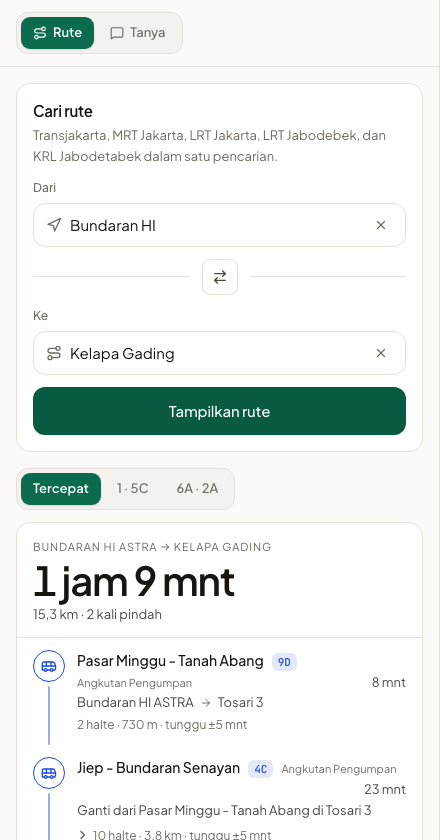
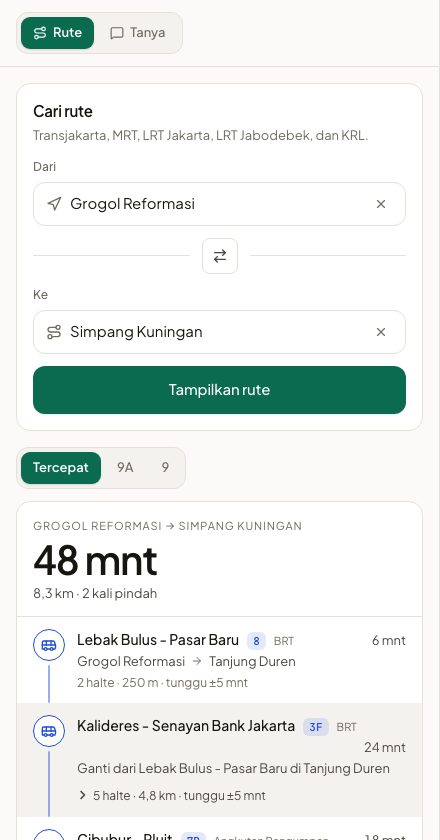
fix(fare): aturan tap in-tap out, transfer, dan integrasi multimodal
Riset
- research/fares-tap-in-out-2026-10.md: laporan dengan kutipan dan URL
- research/data/fares-tap-in-out.json: aturan terstruktur
- research/tools/ux-visual/verify_fares.py: pencocok antara temuan dan data

Perubahan
- Skema integrasi hanya berlaku bila perjalanan memakai minimal dua moda
  berbeda, jadi pindah BRT ke BRT tidak pernah masuk skema itu
- Aturan transfer ditulis ulang: skema internal operator dengan plafon
  Rp5.000 per 3 jam di kartu JakLingko, skema multimodal Rp10.000 yang
  menghitung kaki bus, dan Microtrans atau bus non-BRT yang memutus sesi
- Keyakinan tarif Rp2.500 hanya hari kerja dibuang: tidak ada dasarnya
- Ditambahkan catatan: tarif 1 Januari 2027 belum diumumkan angkanya,
  dan tidak ada batas jam perjalanan tanpa tap out

Antarmuka
- Garis rute di peta bertambah saat kursor di atasnya
- Daftar halte yang dibuka jadi garis waktu: tempat, menit, dan jarak

diff --git a/apps/web/src/components/transit/leg-list.tsx b/apps/web/src/components/transit/leg-list.tsx
@@ -163,18 +163,51 @@ function LegRow({
         </p>
 
         {leg.stops.length > 2 ? (
-          <details className="group mt-1.5">
-            <summary className="inline-flex cursor-pointer list-none items-center gap-1 text-[12px] text-ink-3 hover:text-ink-2">
+          <details className="group mt-2" open={active}>
+            <summary className="inline-flex cursor-pointer list-none items-center gap-1 rounded text-[12px] text-ink-3 transition-colors hover:text-ink-2">
               <ChevronSmall />
               {leg.stops.length} halte · {formatDistance(leg.distanceKm)}
               {!isWalk && leg.waitMinutes > 0 ? ` · tunggu ±${leg.waitMinutes} mnt` : ""}
             </summary>
-            <ol className="mt-1.5 space-y-1 border-l border-line pl-3">
-              {leg.stops.slice(1, -1).map((stop) => (
-                <li key={stop.stationId} className="text-[12px] text-ink-3">
-                  {stop.name}
-                </li>
-              ))}
+
+            {/*
+             * The stops of the ride, as a line the rider can follow:
+             * the place, the moment the vehicle reaches it, and the
+             * distance from the start. Every stop is a point on the map,
+             * so pointing at one of them lights it up there.
+             */}
+            <ol className="mt-2 space-y-0 border-l border-line pl-0">
+              {leg.stops.map((stop, index) => {
+                const first = index === 0;
+                const last = index === leg.stops.length - 1;
+                const minutes = Math.round((leg.durationMinutes * index) / Math.max(leg.stops.length - 1, 1));
+                return (
+                  <li
+                    key={`${stop.stationId}-${index}`}
+                    className="relative -ml-[5px] flex items-baseline gap-2 py-[3px] pl-3 text-[12px]"
+                  >
+                    <span
+                      aria-hidden
+                      className={cn(
+                        "absolute top-[7px] size-[5px] shrink-0 rounded-full border",
+                        first || last ? "border-transparent" : "border-line",
+                      )}
+                      style={{ backgroundColor: first || last ? color : "var(--surface)", left: -5 }}
+                    />
+                    <span
+                      className={cn(
+                        "min-w-0 flex-1 truncate",
+                        first || last ? "font-medium text-ink" : "text-ink-2",
+                      )}
+                    >
+                      {stop.name}
+                    </span>
+                    <span className="shrink-0 tabular-nums text-ink-3">
+                      {first ? "0" : `${minutes} mnt`}
+                    </span>
+                  </li>
+                );
+              })}
             </ol>
           </details>
         ) : (

diff --git a/apps/web/src/components/map/route-map.tsx b/apps/web/src/components/map/route-map.tsx
@@ -139,6 +139,33 @@ export function RouteMap({ legs, markers, theme, className, onMarkerClick }: Rou
       popup = null;
     });
 
+    /*
+     * The line under the pointer.
+     *
+     * The line grows a little and the cursor says it can be pointed at,
+     * so the reader knows the map is not a picture but a thing to be
+     * read.
+     */
+    let hoveredLine: number | string | null = null;
+    map.on("mousemove", ROUTE_LAYER, (event) => {
+      const feature = event.features?.[0];
+      const id = feature?.id;
+      if (id === undefined || id === hoveredLine) return;
+      if (hoveredLine !== null) {
+        map.setFeatureState({ source: SOURCE_ID, id: hoveredLine }, { hover: false });
+      }
+      hoveredLine = id;
+      map.setFeatureState({ source: SOURCE_ID, id }, { hover: true });
+      map.getCanvas().style.cursor = "pointer";
+    });
+    map.on("mouseleave", ROUTE_LAYER, () => {
+      if (hoveredLine !== null) {
+        map.setFeatureState({ source: SOURCE_ID, id: hoveredLine }, { hover: false });
+        hoveredLine = null;
+      }
+      map.getCanvas().style.cursor = "";
+    });
+
     map.on("click", MARKER_HIT_LAYER, (event) => {
       const feature = event.features?.[0];
       if (!feature) return;
@@ -293,15 +320,23 @@ function addRouteLayers(map: MapLibreMap): void {
     type: "line",
     source: SOURCE_ID,
     filter: ["all", ["==", ["get", "variant"], 0], ["==", ["get", "kind"], "ride"]],
+    // The identifier of the feature lets the map remember which leg of
+    // the journey the pointer is over.
+    promoteId: "id",
     layout: { "line-cap": "round", "line-join": "round" },
     paint: {
       "line-color": ["get", "color"],
       // The width carries the mode as well as the colour does, so the
       // route stays readable for a reader who cannot tell the colours
-      // apart.
-      "line-width": ["get", "width"],
+      // apart. The line the pointer is over grows a little.
+      "line-width": [
+        "case",
+        ["boolean", ["feature-state", "hover"], false],
+        ["+", ["get", "width"], 1.5],
+        ["get", "width"],
+      ],
     },
-  });
+  } as never);
 
   // The walk between two vehicles is dashed and thin: it is not a ride,
   // and it should not look like one.

diff --git a/packages/transit/src/fare.ts b/packages/transit/src/fare.ts
@@ -331,9 +331,14 @@ export function quoteFare(input: {
   for (const candidate of input.rules.integrations) {
     const covered = rides.every((leg) => leg.operator && candidate.covers.includes(leg.operator));
     if (!covered) continue;
-    // The scheme exists to combine modes, so it is only offered when the
-    // journey really does use more than one vehicle.
-    if (rides.length < 2) continue;
+    /*
+     * The scheme exists to combine modes, not to make one mode cheaper.
+     * Two buses of the same operator are two fares, not one journey
+     * across two modes, so the scheme is only offered when the journey
+     * really does use more than one mode.
+     */
+    const modes = new Set(rides.map((leg) => leg.operator));
+    if (modes.size < 2) continue;
 
     const amount = Math.min(
       candidate.max,

diff --git a/apps/web/e2e/planner.spec.ts b/apps/web/e2e/planner.spec.ts
@@ -48,7 +48,7 @@ test.describe("route planner", () => {
     await expect(page.getByText(/^[\d,]+ km · \d+ kali pindah$/).first()).toBeVisible();
 
     // The fare is an amount in rupiah.
-    await expect(page.getByText(/Rp \d/)).toBeVisible();
+    await expect(page.getByText(/^Rp [\d.]+$/).first()).toBeVisible();
 
     // A change of vehicle names the line the rider takes next, and a walk
     // says what it is for.
